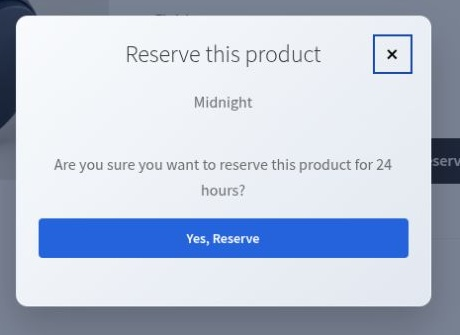
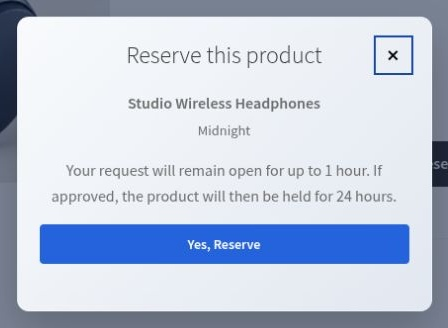
Show product identity in reservation confirmations

diff --git a/assets/js/frontend.js b/assets/js/frontend.js
@@ -101,7 +101,7 @@ jQuery(document).ready(function($) {
 		$title.text(confirmationTitle);
 		$modal.find('button[type="submit"]').prop('disabled', false).text(confirmationButtonText);
 		$modal.find('.sdpr-reservation-prompt').show();
-		$modal.find('[role="dialog"]').attr('aria-describedby', 'sdpr-reservation-dialog-description');
+		$modal.find('[role="dialog"]').attr('aria-describedby', 'sdpr-reservation-product-summary sdpr-reservation-dialog-description');
         $('#sdpr-reservation-form').find('input[name="product_id"]').val(productId);
         
 		$modal.show().attr('aria-hidden', 'false');

diff --git a/assets/css/style.css b/assets/css/style.css
@@ -413,6 +413,21 @@
     gap: 15px;
 }
 
+.sdpr-reservation-product {
+    margin: 0;
+    overflow-wrap: anywhere;
+}
+
+.sdpr-reservation-product-name {
+    display: block;
+}
+
+.sdpr-reservation-product .sdpr-selected-variation:not([hidden]) {
+    display: block;
+    margin-top: 4px;
+    font-size: 0.9em;
+}
+
 #sdpr-reservation-dialog-description {
     margin: 0;
 }

diff --git a/tests/modal-product-context.php b/tests/modal-product-context.php
@@ -1,0 +1,60 @@
+<?php
+/** Run only in a disposable WordPress site using WP-CLI eval-file. */
+if ( ! defined( 'ABSPATH' ) || '1' !== getenv( 'SDPR_MODAL_TEST' ) ) {
+	exit( 1 );
+}
+
+$sdpr_modal_failures = 0;
+function sdpr_modal_assert( $condition, $message ) {
+	global $sdpr_modal_failures;
+	if ( ! $condition ) {
+		++$sdpr_modal_failures;
+	}
+	echo ( $condition ? 'PASS: ' : 'FAIL: ' ) . $message . "\n";
+}
+
+function sdpr_modal_markup( $product ) {
+	$GLOBALS['product'] = $product;
+	ob_start();
+	include SDPR_PLUGIN_PATH . 'templates/modal-template.php';
+	return ob_get_clean();
+}
+
+$sdpr_had_product = array_key_exists( 'product', $GLOBALS );
+$sdpr_original_product = $GLOBALS['product'] ?? null;
+$sdpr_missing_options = 'sdpr-modal-missing-' . wp_generate_uuid4();
+$sdpr_original_options = get_option( 'sdpr_options', $sdpr_missing_options );
+
+try {
+	update_option( 'sdpr_options', array( 'reservation_duration' => 24 ) );
+	foreach ( array( 'simple', 'variable' ) as $sdpr_type ) {
+		$sdpr_product = 'variable' === $sdpr_type ? new WC_Product_Variable() : new WC_Product_Simple();
+		$sdpr_product->set_name( 'Studio Headphones <special> & Sound' );
+		$sdpr_markup = sdpr_modal_markup( $sdpr_product );
+		sdpr_modal_assert( false !== strpos( $sdpr_markup, '<strong class="sdpr-reservation-product-name">Studio Headphones &lt;special&gt; &amp; Sound</strong>' ), $sdpr_type . ': confirmation includes the escaped product name.' );
+		sdpr_modal_assert( false === strpos( $sdpr_markup, '<special>' ), $sdpr_type . ': product name is not rendered as HTML.' );
+		sdpr_modal_assert( 1 === substr_count( $sdpr_markup, 'id="sdpr-reservation-product-summary"' ), $sdpr_type . ': confirmation has one product-summary identifier.' );
+		sdpr_modal_assert( false !== strpos( $sdpr_markup, 'aria-describedby="sdpr-reservation-product-summary sdpr-reservation-dialog-description"' ), $sdpr_type . ': dialog description includes the product context and duration.' );
+		sdpr_modal_assert( false !== strpos( $sdpr_markup, '<span class="sdpr-selected-variation" hidden></span>' ), $sdpr_type . ': dynamic selected options remain separate and hidden until populated.' );
+	}
+	update_option( 'sdpr_options', array( 'require_admin_approval' => 1, 'pending_duration' => 2, 'reservation_duration' => 24 ) );
+	$sdpr_markup = sdpr_modal_markup( $sdpr_product );
+	sdpr_modal_assert( false !== strpos( $sdpr_markup, 'sdpr-reservation-product-name' ) && false !== strpos( $sdpr_markup, 'Your request will remain open for up to 2 hours.' ), 'Approval confirmation retains product context and the pending deadline.' );
+	sdpr_modal_assert( false !== strpos( $sdpr_markup, 'If approved, the product will then be held for 24 hours.' ), 'Approval confirmation retains the separate active duration.' );
+} finally {
+	if ( $sdpr_had_product ) {
+		$GLOBALS['product'] = $sdpr_original_product;
+	} else {
+		unset( $GLOBALS['product'] );
+	}
+	if ( $sdpr_missing_options === $sdpr_original_options ) {
+		delete_option( 'sdpr_options' );
+	} else {
+		update_option( 'sdpr_options', $sdpr_original_options );
+	}
+}
+
+if ( $sdpr_modal_failures ) {
+	WP_CLI::error( $sdpr_modal_failures . ' modal product-context assertions failed.' );
+}
+WP_CLI::success( 'All modal product-context assertions passed.' );

diff --git a/templates/modal-template.php b/templates/modal-template.php
@@ -70,7 +70,7 @@ if ( $sdpr_enable_popup_customization ) {
 ?>
 
 <div id="sdpr-reservation-modal" class="modal-overlay sdpr-modal-overlay" aria-hidden="true" style="display: none;">
-	<div class="modal-box sdpr-modal-box<?php echo $sdpr_enable_popup_customization ? ' sdpr-modal-box--custom' : ''; ?>" role="dialog" aria-modal="true" aria-labelledby="sdpr-reservation-dialog-title" aria-describedby="sdpr-reservation-dialog-description" tabindex="-1" style="<?php echo esc_attr( $sdpr_modal_box_style ); ?>">
+	<div class="modal-box sdpr-modal-box<?php echo $sdpr_enable_popup_customization ? ' sdpr-modal-box--custom' : ''; ?>" role="dialog" aria-modal="true" aria-labelledby="sdpr-reservation-dialog-title" aria-describedby="sdpr-reservation-product-summary sdpr-reservation-dialog-description" tabindex="-1" style="<?php echo esc_attr( $sdpr_modal_box_style ); ?>">
 		<div class="sdpr-modal-header">
 			<h2 id="sdpr-reservation-dialog-title" data-result-title="<?php echo esc_attr( $sdpr_requires_approval ? __( 'Request submitted', 'spectral-dot-reservations' ) : __( 'Reservation confirmed', 'spectral-dot-reservations' ) ); ?>"><?php esc_html_e( 'Reserve this product', 'spectral-dot-reservations' ); ?></h2>
 			<button type="button" class="modal-close" aria-label="<?php esc_attr_e( 'Close reservation dialog', 'spectral-dot-reservations' ); ?>">&times;</button>
@@ -82,7 +82,10 @@ if ( $sdpr_enable_popup_customization ) {
 
 			<div id="sdpr-reservation-result" class="sdpr-reservation-notice" role="status" aria-live="polite" aria-atomic="true" style="display: none;"></div>
 			<div class="sdpr-reservation-prompt">
-				<p class="sdpr-selected-variation" hidden></p>
+				<p id="sdpr-reservation-product-summary" class="sdpr-reservation-product">
+					<strong class="sdpr-reservation-product-name"><?php echo esc_html( $sdpr_product->get_name() ); ?></strong>
+					<span class="sdpr-selected-variation" hidden></span>
+				</p>
 				<?php do_action( 'sdpr_reservation_form_fields', $sdpr_product ); ?>
 
 				<p id="sdpr-reservation-dialog-description">

diff --git a/spectral-dot-reservations.php b/spectral-dot-reservations.php
@@ -9,7 +9,7 @@
  * Requires PHP:      7.4
  * Requires Plugins:  woocommerce
  * WC requires at least: 8.0
- * WC tested up to:   11.1
+ * WC tested up to:   11.2
  * Author:            Spectral Dot
  * Text Domain:       spectral-dot-reservations
  * Domain Path:       /languages

diff --git a/.wordpress-org/README.md b/.wordpress-org/README.md
@@ -24,6 +24,8 @@ Images are genuine browser captures. Only rectangular cropping was applied: no i
 
 The gallery shows selected-option labels, updated customer action spacing, compact urgency badges, the current brand header and readable account heading/status colors. Screenshot 2 was refreshed after correcting the product buttons' inline baseline alignment; both buttons share the same top and bottom edges on desktop and wrap with a gap on narrow screens. It illustrates the product rather than certifying complete accessibility or every browser interaction. Automated checkout tests, visual observations and any remaining headed-browser limitations are recorded separately in the private update report.
 
+Screenshot 3 was refreshed on 2026-10-31 after adding the missing product name above the selected finish. The confirmation now identifies Studio Wireless Headphones and its Midnight finish, with pending-request and active-hold durations kept separate. Only a rectangular crop of the real browser capture was applied.
+
 ## Gallery
 
 ### 1. Settings

diff --git a/CHANGELOG.md b/CHANGELOG.md
@@ -15,6 +15,7 @@ All notable changes to Spectral Dot Reservations are documented here. The projec
 - Scope frontend styles to plugin components and protect heading, badge and deadline contrast across themes.
 - Align the Reserve and Add to cart buttons by their top edges rather than mismatched inline baselines.
 - Use translated singular/plural reservation counts in the merchant list.
+- Show the product name above the selected variation in reservation confirmations, including the accessible dialog description.
 - Expand variation and shared-stock concurrency regressions and CI coverage.
 
 ## 1.0.0
